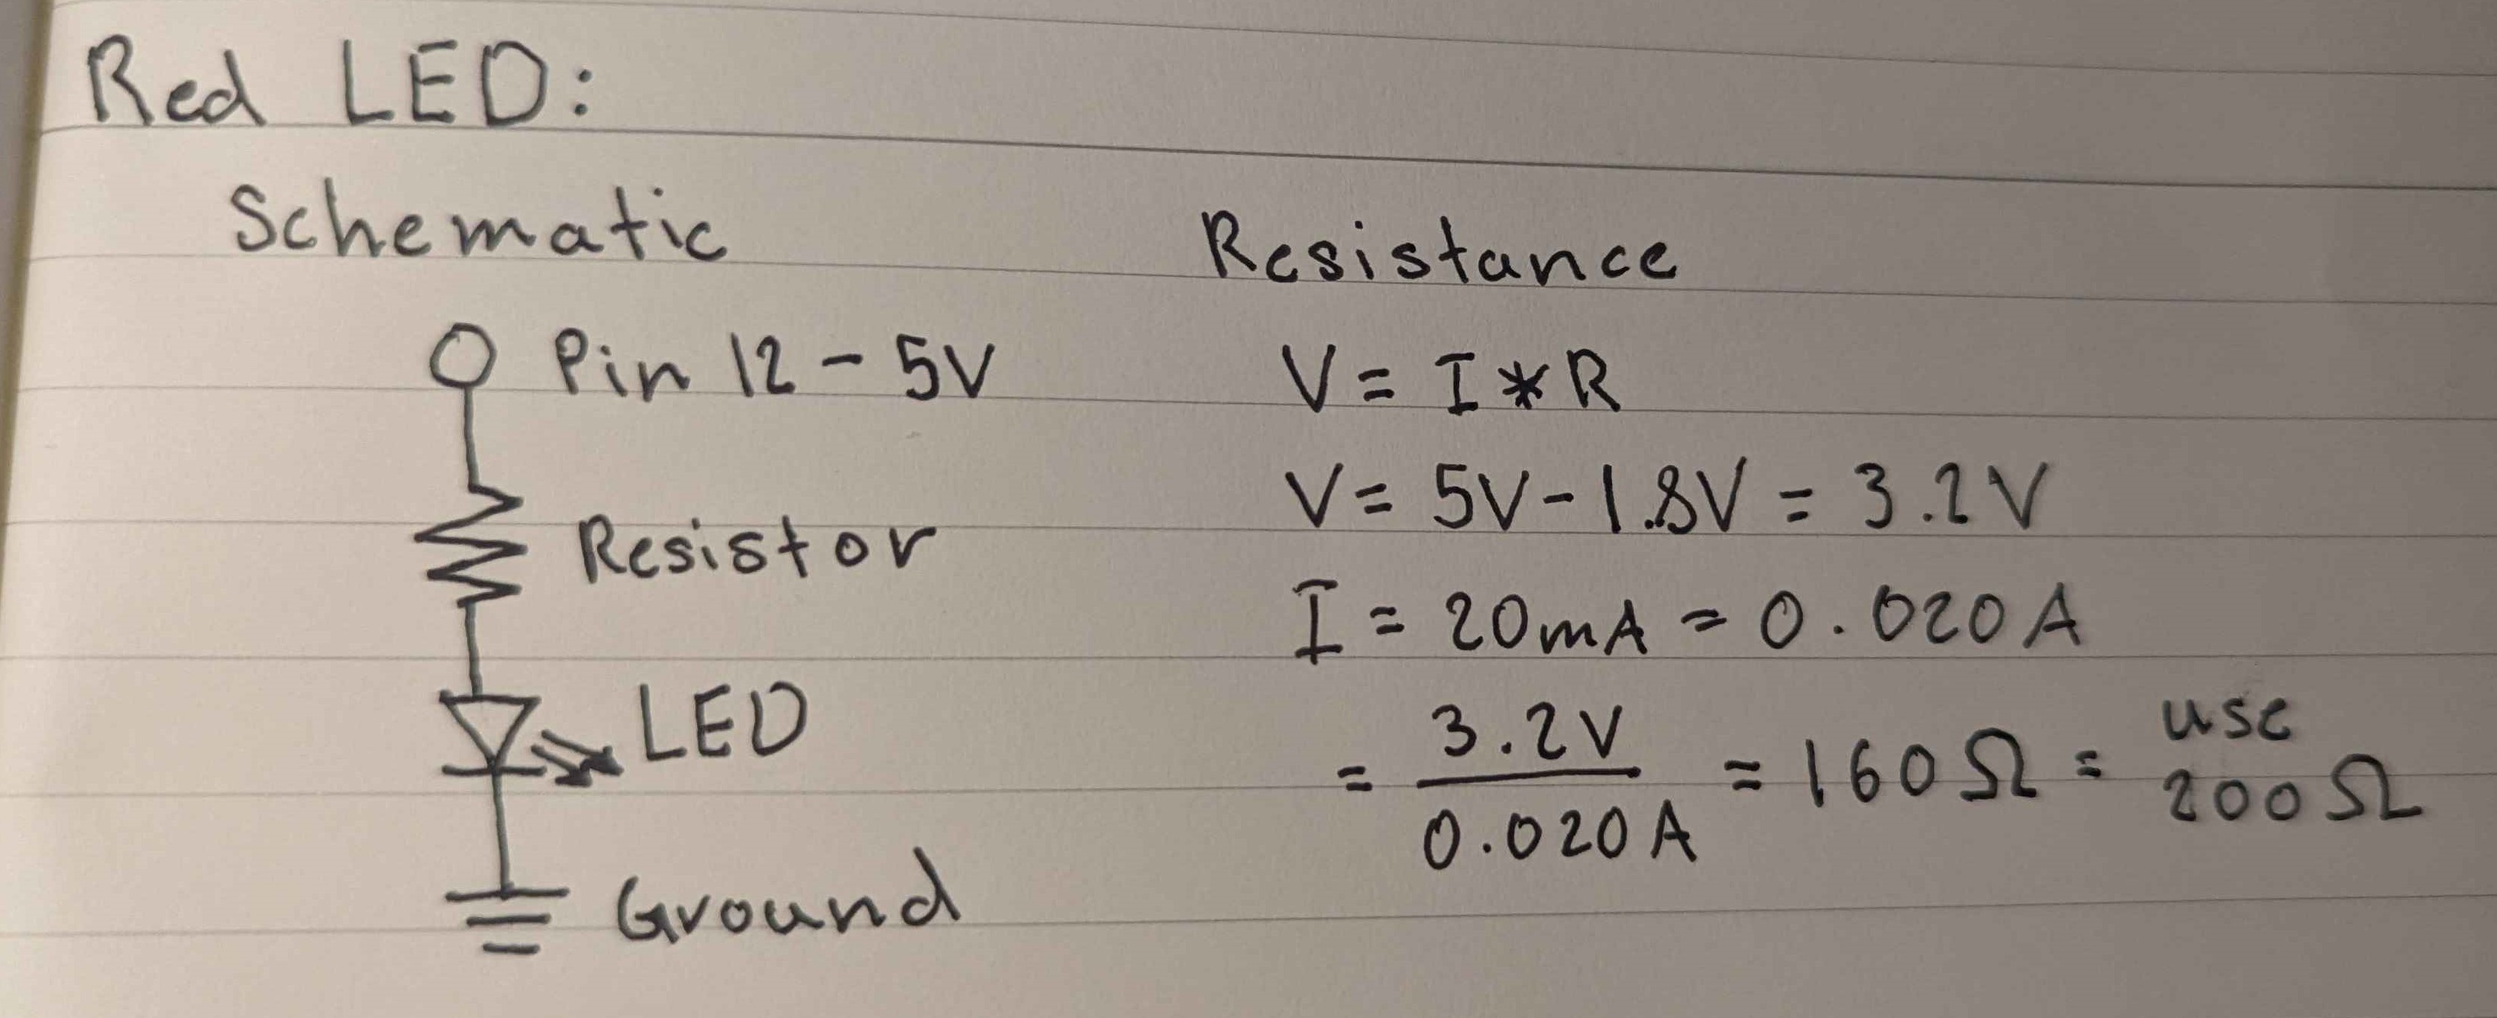
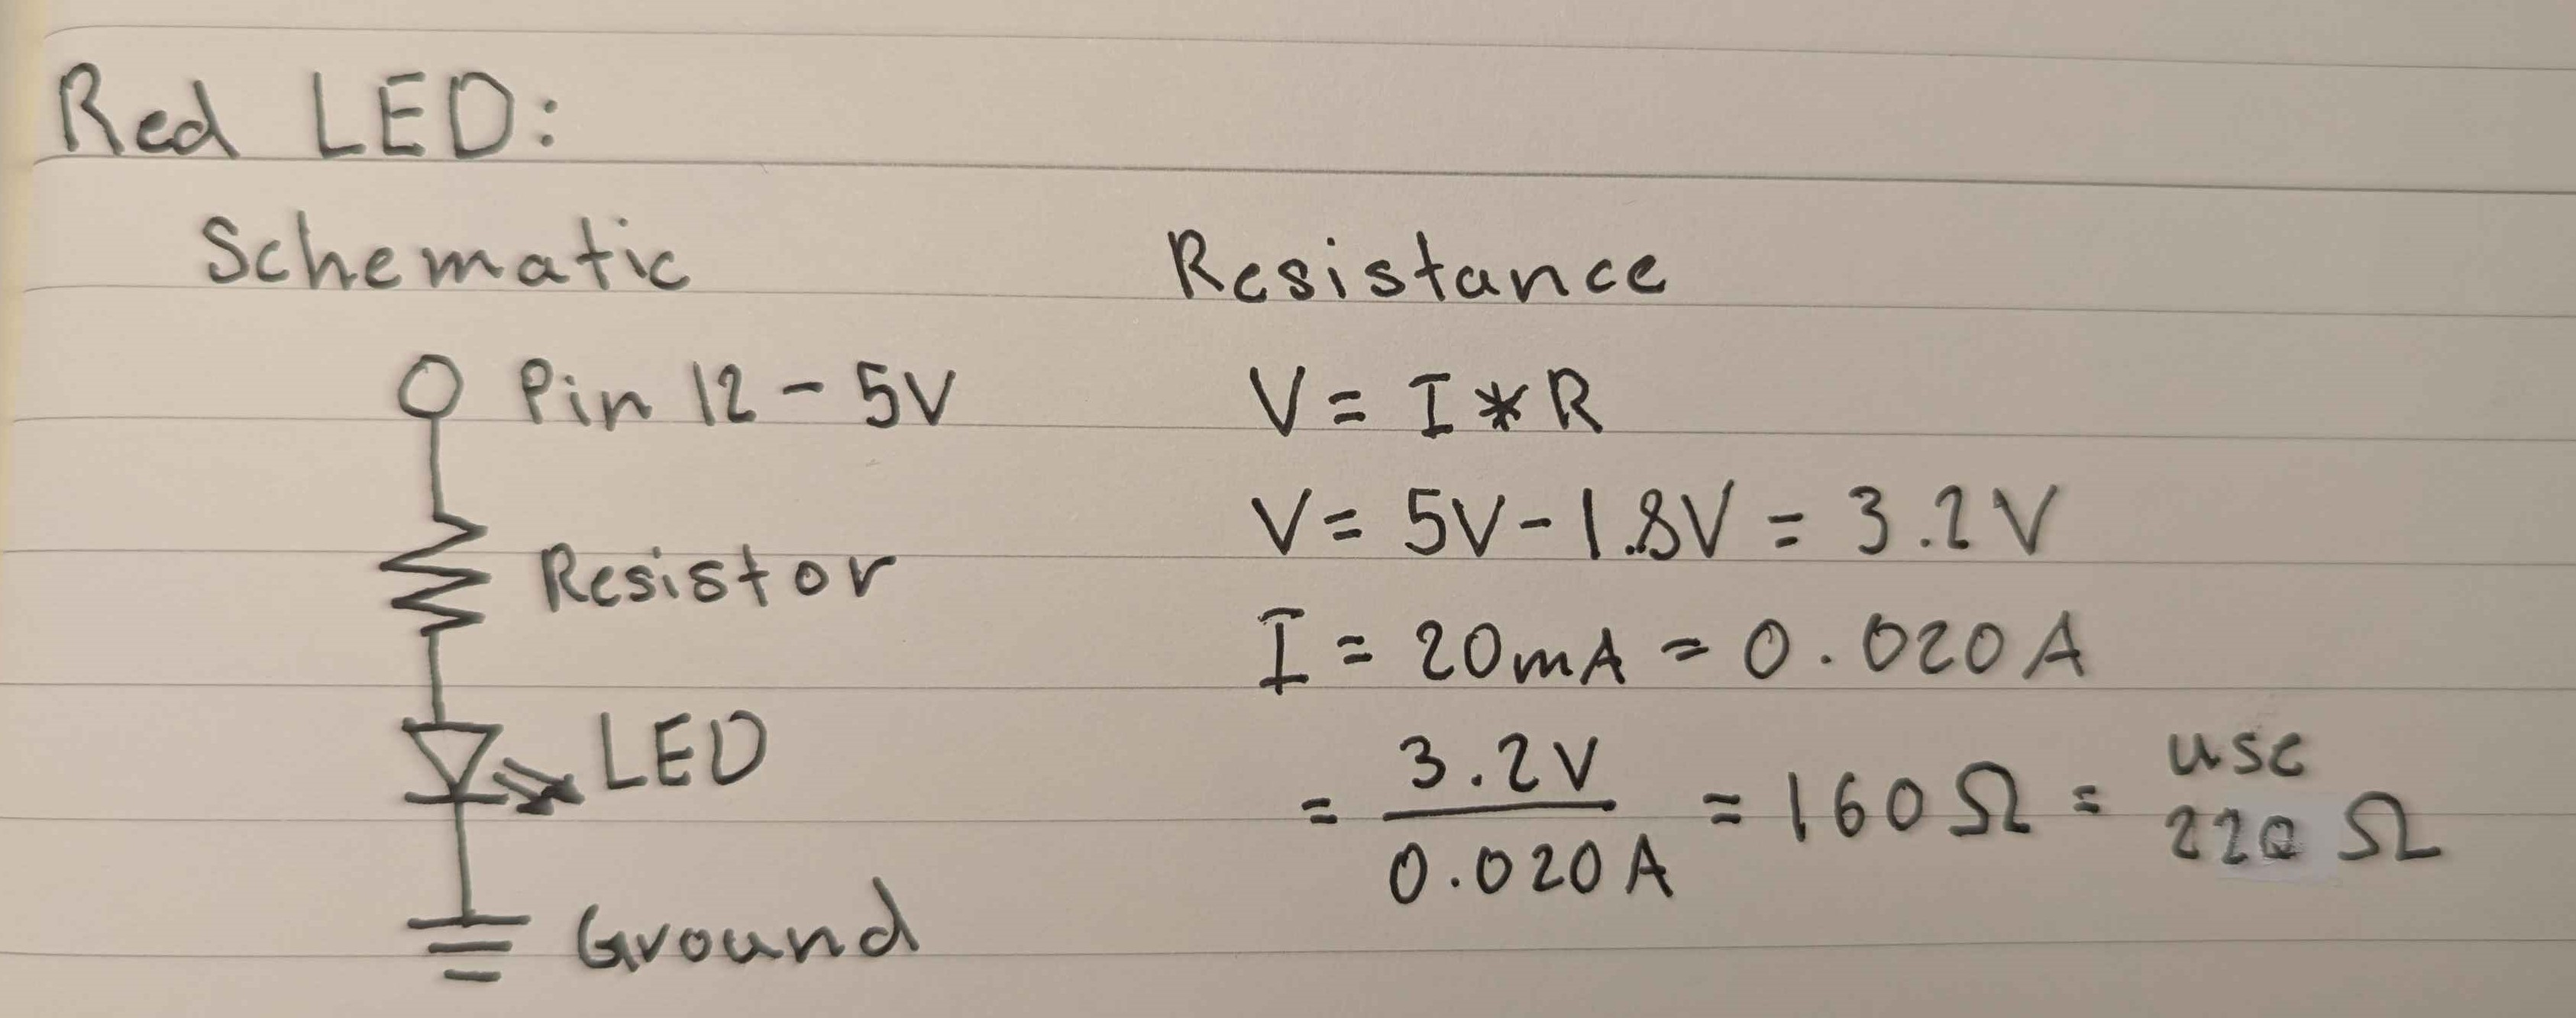
Completed A2:Fade

diff --git a/a2.html b/a2.html
@@ -32,10 +32,10 @@
               <img src="imgs/FadeYellowLED.jpg">
               <article>
                 For both the Red and Yellow LED schematics, they are connected
-                to their respective pins (pins 12 and 13), each with a 200-ohm
+                to their respective pins (pins 12 and 13), each with a 220-ohm
                 resistor. Given the known voltage drop for their color, which is
                 1.8V, 160 ohms of resistance is required. However, the closest
-                standard resistor value available is 200 ohms, so it is used.
+                standard resistor value available is 220 ohms, so it is used.
               </article>
             </div>
           </section>
@@ -139,7 +139,7 @@
              Draw 3 lines representing the voltage across an LED with
              analogWrite(led, 64), analogWrite(led, 128), and analogWrite(led,255).
           </h4>
-          <img class="graph" src="imgs/AQ1.jpg">
+          <img class="graph" src="imgs/FadeGraph.jpg">
         </section>
 
         <section>
@@ -149,8 +149,19 @@
             run if powered by a 1200 mAh battery?
           </h4>
           <div class="questionsInner">
+            <img class="datasheet" src="imgs/FadeQ2.jpg">
             <article>
-              Text
+              When considering this question, I considered two scenarios based on
+              whether the button is pressed continuously or not. In my circuit,
+              there is always at least one LED on. If the white LED remains on
+              the entire time, the battery would last approximately 70.59 hours.
+              When the button is pressed, the red and yellow LEDs dim at a level
+              set in the software (130 in my case), which reduces their current
+              draw. If the button were held continuously, the battery life
+              increases to around 84.15 hours, giving about 14 extra hours.
+              While other scenarios, such as intervals of button presses, could
+              be calculated, this provides a good range for estimating the
+              battery life.
             </article>
           </div>
         </section>
